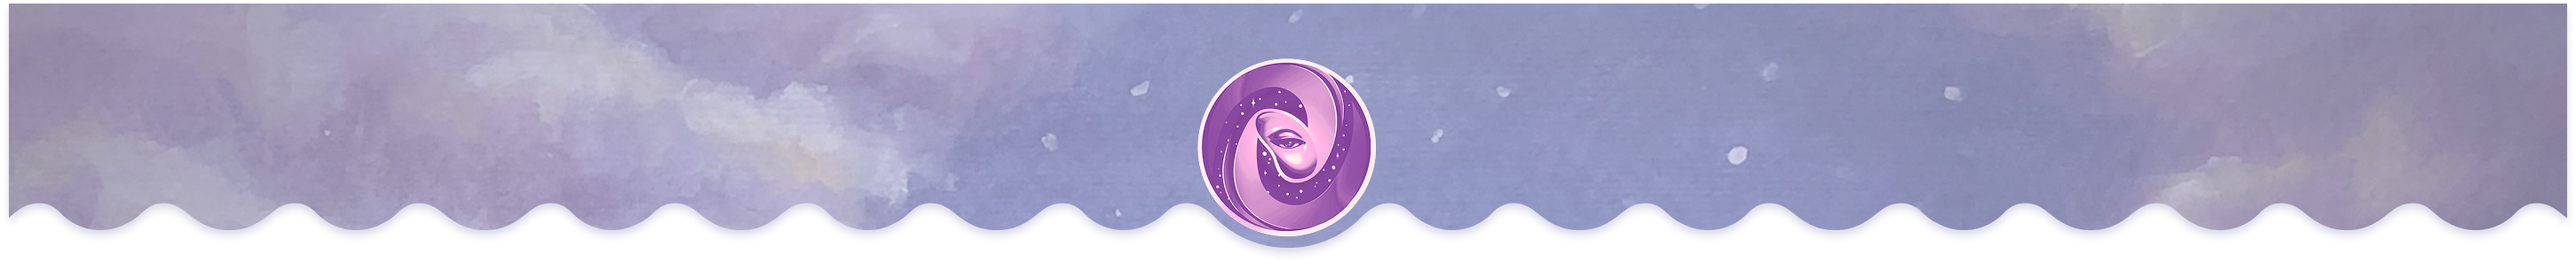
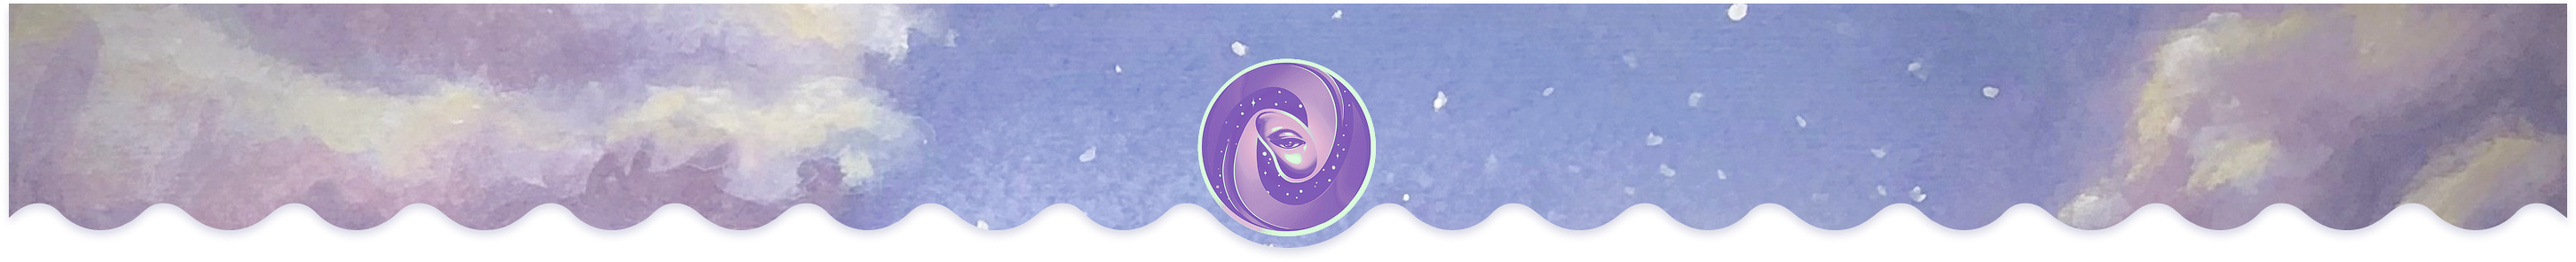
edit

diff --git a/index.html b/index.html
@@ -80,7 +80,7 @@
         <section style="display:flex; flex-direction:column; justify-content:center; width:100%; height:100%;">
             <div style="position: relative; display: inline-block; width: 100%; height: 100%;">
                 <div class="canvaspaper">
-                    <img class="galleryimg" style="width: 100%; height: stretch; display: block;" src="Paintings/untitled4.2.gif"/>
+                    <img class="galleryimg" style="width: 100%; height: stretch; display: block;" src="Paintings/Untitled1.2.gif"/>
                 </div>
                 <div class="canvas" ></div>
             </div>

diff --git a/mainstyle.css b/mainstyle.css
@@ -58,7 +58,7 @@ header {
     font-family: headertextbold;
     font-size: 1.7rem;
     text-align: center;
-    color: #A969B9;
+    color: #a07ec1;
     border-bottom: solid 1px #7b5ba517;
     width: 100%;
     margin: auto;
